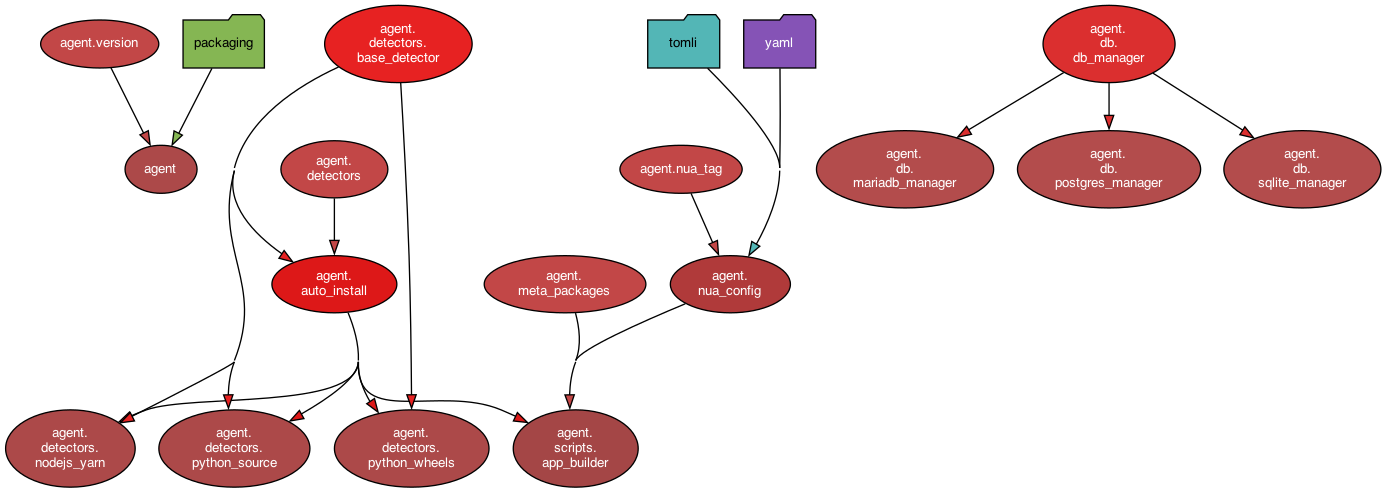
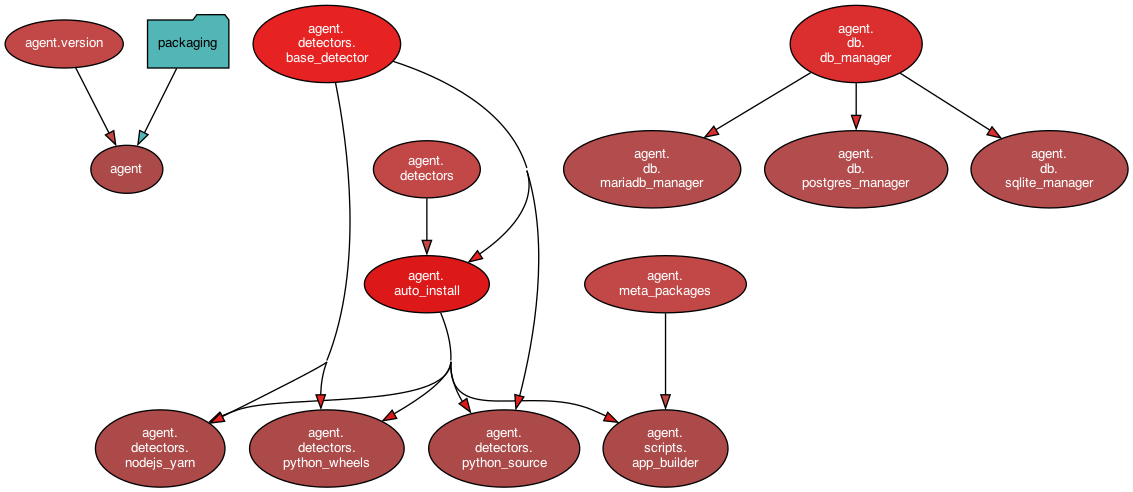
doc: regenerate graphs.

diff --git a/tasks.py b/tasks.py
@@ -147,7 +147,7 @@ def graph(c):
     run_in_subrepos(c, "mkdir -p doc")
     for sub_repo in SUB_REPOS:
         output = "doc/dependency-graph.png"
-        target = f"src/nua/{sub_repo[4:]}"
+        target = "src/nua_cli" if sub_repo == "nua-cli" else f"src/nua/{sub_repo[4:]}"
         cmd = f"pydeps --max-bacon 2 --cluster -o {output} -T png {target}"
         h1(f"Running '{cmd}' in subrepos: {sub_repo}")
         with c.cd(sub_repo):
